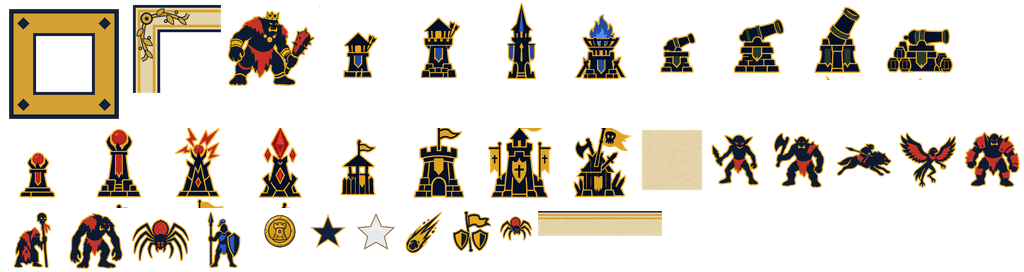
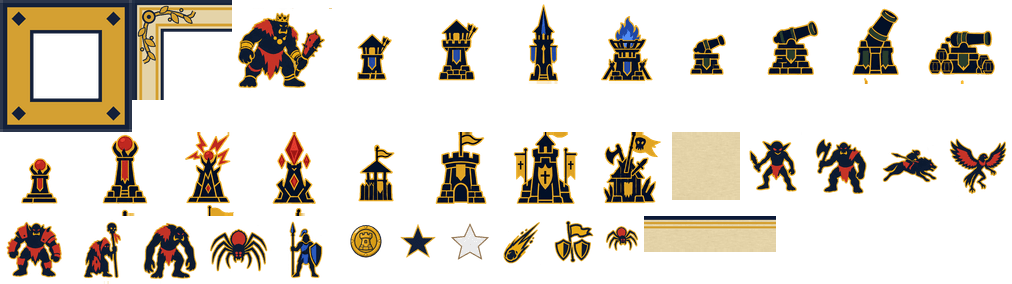
Parşömen çerçeve dikişleri: atlas kırpma + taşırma, şerit ölçeği
Oyuncu geri bildirimi (M7-P02, 2026-09-14): "Play yazısı parçalı
duruyor", "main menu'de aynı çizgilenme sorunu var". Her parşömen
butonda (Play, Try again, Main menu, ayar değerleri) dikey koyu
çizgiler, seviye kartlarında köşelerde yeşil boşluklar.

Kök neden — iki katman, ikisi de ölçüldü:
1. Dört çerçeve parçasının kaynak PNG'si (edge-strip 620×140, corner,
   middle-texture, cartouche) SAYDAM kenar payı taşıyor (dört kenarda
   alfa 0). `fit:'contain'` bu payı koruyunca `TileSprite` her 128 px
   tekrarında bir boşluk bırakıyor ve arkası görünüyordu: parşömen
   butonda mürekkep zemin (koyu çizgi), kartta küçük resim (yeşil köşe).
2. Atlas'ta kareler bitişikti (sıfır boşluk); `edge-strip`'in sol
   komşusu koyu bir örümcek karesi. WebGL döşeme sınırında komşu
   piksel örnekleniyor.

Düzeltme (prep-assets.mjs):
- Çerçeve parçaları `kirp: true` → `trim()` + `fit:'fill'`, kare tam
  dolu (yeni atlas'ta şerit kenar sütunları alfa 255).
- Her kare 2 px kenar kopyasıyla (`extend extendWith:'copy'`)
  paketleniyor; `frame` dikdörtgeni taşırmayı dışarıda bırakıyor.
- Adımlar tek tek koşturulabiliyor (`prep-assets.mjs atlas`): ses
  adımı ffmpeg'den geçiyor ve .m4a her koşuda bayt bayt aynı olmuyor,
  yalnız atlas değişmişken sesi de "değişmiş" göstermesin diye.

ParchmentFrame.ts: şerit karesi 32 px, band `corner` px — TileSprite
dokuyu doğal boyutta döşediği için bandın içine şeridin yalnız üst
satırları sığıyordu. `setTileScale(corner / kareYüksekliği)`, yükseklik
[…]

diff --git a/src/fx/ParchmentFrame.ts b/src/fx/ParchmentFrame.ts
@@ -33,21 +33,24 @@ export function createParchmentFrame(
     ? null
     : scene.add.tileSprite(0, 0, middleW, middleH, 'atlas', FRAME_MIDDLE).setOrigin(0.5);
 
-  const top = scene.add
-    .tileSprite(0, -height / 2 + corner / 2, middleW, corner, 'atlas', FRAME_EDGE)
-    .setOrigin(0.5);
-  const bottom = scene.add
-    .tileSprite(0, height / 2 - corner / 2, middleW, corner, 'atlas', FRAME_EDGE)
-    .setOrigin(0.5)
-    .setAngle(180);
-  const left = scene.add
-    .tileSprite(-width / 2 + corner / 2, 0, middleH, corner, 'atlas', FRAME_EDGE)
-    .setOrigin(0.5)
-    .setAngle(270);
-  const right = scene.add
-    .tileSprite(width / 2 - corner / 2, 0, middleH, corner, 'atlas', FRAME_EDGE)
-    .setOrigin(0.5)
-    .setAngle(90);
+  // Şerit karesi 32 px yüksek, band ise `corner` px — `TileSprite` dokuyu
+  // doğal boyutunda döşediği için eskiden bandın içine şeridin yalnız
+  // üst `corner` satırı sığıyordu (desenin geri kalanı kırpılıyordu).
+  // Ölçek karenin **gerçek** yüksekliğinden okunuyor; manifest değişirse
+  // burası kendini ayarlıyor.
+  const seritYuksekligi = scene.textures.getFrame('atlas', FRAME_EDGE).height;
+  const seritOlcek = corner / seritYuksekligi;
+  const serit = (sx: number, sy: number, uzunluk: number, aci: number) =>
+    scene.add
+      .tileSprite(sx, sy, uzunluk, corner, 'atlas', FRAME_EDGE)
+      .setOrigin(0.5)
+      .setTileScale(seritOlcek, seritOlcek)
+      .setAngle(aci);
+
+  const top = serit(0, -height / 2 + corner / 2, middleW, 0);
+  const bottom = serit(0, height / 2 - corner / 2, middleW, 180);
+  const left = serit(-width / 2 + corner / 2, 0, middleH, 270);
+  const right = serit(width / 2 - corner / 2, 0, middleH, 90);
 
   const koseler = [
     { dx: -width / 2 + corner / 2, dy: -height / 2 + corner / 2, angle: 0 }, // sol-üst
